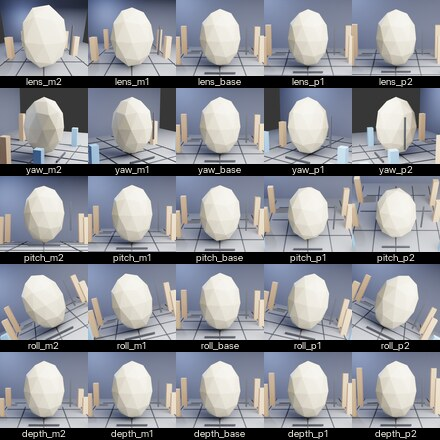
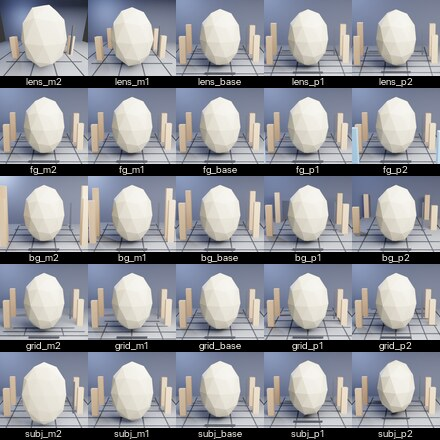
Refocus camera scout on same-view depth cues

diff --git a/src/blender_workbench/recipes/camera_perspective.py b/src/blender_workbench/recipes/camera_perspective.py
@@ -16,14 +16,19 @@ CAMERA_PERSPECTIVE_CAMERA = "perspective_scout_camera"
 
 @dataclass(frozen=True)
 class CameraPerspectiveSettings:
-    camera_lens: float = 45.0
-    camera_distance: float = camera_distance_for_matching_framing(45.0)
+    camera_lens: float = 58.0
+    camera_distance: float = camera_distance_for_matching_framing(58.0, base_lens_mm=58.0, base_distance=4.6)
     camera_yaw: float = 0.0
-    camera_pitch: float = 10.0
+    camera_pitch: float = 12.0
     camera_roll: float = 0.0
     subject_scale: tuple[float, float, float] = (0.72, 0.72, 1.0)
+    subject_y: float = 0.28
+    subject_depth: float = 1.0
+    foreground_depth: float = 1.0
     foreground_marker_scale: float = 1.0
+    background_depth: float = 1.0
     background_marker_scale: float = 1.0
+    floor_grid_depth: float = 1.0
     room_depth: float = 4.6
     light_angle: float = -35.0
 
@@ -57,17 +62,16 @@ def camera_perspective_variants(
     steps: tuple[int, ...] = (-2, -1, 0, 1, 2),
     lens_center: float = 58.0,
     lens_stride: float = 36.0,
-    yaw_stride: float = 34.0,
-    pitch_center: float = 18.0,
-    pitch_stride: float = 13.0,
-    roll_stride: float = 13.0,
-    depth_stride: float = 1.05,
+    foreground_stride: float = 0.45,
+    background_stride: float = 0.45,
+    grid_stride: float = 0.46,
+    subject_stride: float = 0.36,
 ) -> list[SweepVariant]:
-    """Build a stride board for camera variables.
+    """Build a same-view stride board for perspective/depth variables.
 
-    Increase the stride values when the perspective sheet looks timid. The
-    distance is recalculated for every lens tile so the central subject stays
-    roughly comparable while the room perspective changes.
+    Increase the stride values when the sheet looks timid. The lens row uses
+    matched distance, while other rows keep the same camera view and alter the
+    scene's depth cues.
     """
     base = dataclasses.asdict(CameraPerspectiveSettings(camera_lens=lens_center, camera_distance=_matched(lens_center)))
     variants: list[SweepVariant] = []
@@ -81,7 +85,7 @@ def camera_perspective_variants(
                 name=name,
                 label=label,
                 settings=data,
-                note="stride scout: lens, distance, orbit, roll, and depth",
+                note="same-view stride scout: lens, foreground, background, grid, subject",
             )
         )
 
@@ -90,25 +94,44 @@ def camera_perspective_variants(
         add(f"lens_{_step_label(step)}", {"camera_lens": lens, "camera_distance": _matched(lens)})
 
     for step in steps:
-        add(f"yaw_{_step_label(step)}", {"camera_yaw": step * yaw_stride})
-
-    for step in steps:
-        pitch = _clamp(pitch_center + step * pitch_stride, -6.0, 52.0)
-        add(f"pitch_{_step_label(step)}", {"camera_pitch": pitch})
-
-    for step in steps:
-        add(f"roll_{_step_label(step)}", {"camera_roll": step * roll_stride})
-
-    for step in steps:
-        depth = _clamp(4.6 + step * depth_stride, 2.4, 8.0)
-        foreground = _clamp(1.0 - step * 0.28, 0.42, 1.75)
-        background = _clamp(1.0 + step * 0.18, 0.55, 1.55)
+        depth = _clamp(1.0 + step * foreground_stride, 0.18, 2.2)
         add(
-            f"depth_{_step_label(step)}",
+            f"fg_{_step_label(step)}",
             {
-                "room_depth": depth,
-                "foreground_marker_scale": foreground,
-                "background_marker_scale": background,
+                "foreground_depth": depth,
+                "foreground_marker_scale": _clamp(0.55 + depth * 0.54, 0.45, 1.85),
+            },
+        )
+
+    for step in steps:
+        depth = _clamp(1.0 + step * background_stride, 0.22, 2.35)
+        add(
+            f"bg_{_step_label(step)}",
+            {
+                "background_depth": depth,
+                "background_marker_scale": _clamp(1.35 - (depth - 1.0) * 0.32, 0.50, 1.62),
+                "room_depth": _clamp(4.6 + (depth - 1.0) * 1.55, 2.7, 7.0),
+            },
+        )
+
+    for step in steps:
+        grid = _clamp(1.0 + step * grid_stride, 0.25, 2.4)
+        add(
+            f"grid_{_step_label(step)}",
+            {
+                "floor_grid_depth": grid,
+                "room_depth": _clamp(4.6 * grid, 2.4, 8.0),
+            },
+        )
+
+    for step in steps:
+        subject = _clamp(1.0 + step * subject_stride, 0.30, 1.95)
+        add(
+            f"subj_{_step_label(step)}",
+            {
+                "subject_y": _clamp(0.28 + step * 0.24, -0.22, 0.92),
+                "subject_depth": subject,
+                "subject_scale": (0.72, 0.72 * subject, 1.0),
             },
         )
 
@@ -148,33 +171,48 @@ def _add_set(settings: CameraPerspectiveSettings) -> None:
     floor_obj.name = "perspective floor"
     floor_obj.data.materials.append(floor)
 
-    bpy.ops.mesh.primitive_plane_add(size=6.4, location=(0, 2.75, 1.8), rotation=(math.pi / 2, 0, 0))
+    wall_y = 2.05 + settings.background_depth * 0.72
+    bpy.ops.mesh.primitive_plane_add(size=6.4, location=(0, wall_y, 1.8), rotation=(math.pi / 2, 0, 0))
     wall_obj = bpy.context.object
     wall_obj.name = "back wall"
     wall_obj.data.materials.append(wall)
 
-    for x in [-1.2, -0.6, 0.0, 0.6, 1.2]:
-        _cube(f"floor depth stripe {x}", (x, 0.25, 0.012), (0.018, settings.room_depth, 0.012), dark)
-    for index, y in enumerate([-1.2, -0.4, 0.4, 1.2, 2.0]):
-        width = 2.9 - index * 0.22
-        _cube(f"floor cross stripe {index:02d}", (0, y, 0.018), (width, 0.015, 0.012), dark)
+    x_count = max(3, min(9, round(3 + settings.floor_grid_depth * 3)))
+    x_positions = [-1.45 + index * (2.9 / max(1, x_count - 1)) for index in range(x_count)]
+    for index, x in enumerate(x_positions):
+        _cube(f"floor depth stripe {index:02d}", (x, 0.25, 0.012), (0.018, settings.room_depth * settings.floor_grid_depth, 0.012), dark)
+    cross_count = max(3, min(11, round(3 + settings.floor_grid_depth * 4)))
+    for index in range(cross_count):
+        t = index / max(1, cross_count - 1)
+        scaled_y = (-1.25 + t * 3.25) * settings.floor_grid_depth
+        width = 3.0 - t * 1.35
+        _cube(f"floor cross stripe {index:02d}", (0, scaled_y, 0.018), (width, 0.015, 0.012), dark)
 
     for index, y in enumerate([-0.95, -0.25, 0.65, 1.55]):
-        marker_scale = settings.foreground_marker_scale if y < 0 else settings.background_marker_scale
+        is_foreground = y < 0
+        marker_scale = settings.foreground_marker_scale if is_foreground else settings.background_marker_scale
+        depth_scale = settings.foreground_depth if is_foreground else settings.background_depth
+        marker_y = y * depth_scale - (max(0.0, depth_scale - 1.0) * 0.25 if is_foreground else 0.0)
         height = (0.38 + index * 0.18) * marker_scale
-        x = -1.18 if index % 2 == 0 else 1.18
+        x_abs = 1.18
+        if is_foreground:
+            x_abs = _clamp(1.24 - max(0.0, depth_scale - 1.0) * 0.32, 0.78, 1.35)
+        else:
+            x_abs = _clamp(1.02 + max(0.0, depth_scale - 1.0) * 0.22, 0.86, 1.38)
+        x = -x_abs if index % 2 == 0 else x_abs
         mat = cool if y < 0 else warm
-        _cube(f"depth marker left {index:02d}", (x, y, height * 0.5), (0.16, 0.16, height), mat)
-        _cube(f"depth marker right {index:02d}", (-x, y + 0.16, height * 0.5), (0.16, 0.16, height), mat)
+        marker_width = 0.16 * (1.0 + max(0.0, depth_scale - 1.0) * (0.55 if is_foreground else 0.18))
+        _cube(f"depth marker left {index:02d}", (x, marker_y, height * 0.5), (marker_width, 0.16, height), mat)
+        _cube(f"depth marker right {index:02d}", (-x, marker_y + 0.16 * depth_scale, height * 0.5), (marker_width, 0.16, height), mat)
 
-    bpy.ops.mesh.primitive_ico_sphere_add(subdivisions=2, radius=0.72, location=(0.0, 0.28, 0.78))
+    bpy.ops.mesh.primitive_ico_sphere_add(subdivisions=2, radius=0.72, location=(0.0, settings.subject_y, 0.78))
     subject = bpy.context.object
     subject.name = "matched framing subject"
     subject.scale = settings.subject_scale
     subject.data.materials.append(subject_mat)
 
-    _cube("subject vertical ruler", (0.66, 0.22, 0.72), (0.035, 0.035, 0.72), dark)
-    _cube("subject ground ruler", (0.0, -0.18, 0.035), (0.72, 0.035, 0.035), dark)
+    _cube("subject vertical ruler", (0.66, settings.subject_y - 0.06, 0.72), (0.035, 0.035, 0.72), dark)
+    _cube("subject ground ruler", (0.0, settings.subject_y - 0.46, 0.035), (0.72, 0.035, 0.035), dark)
 
 
 def _add_lights(settings: CameraPerspectiveSettings) -> None:

diff --git a/tests/test_sweep.py b/tests/test_sweep.py
@@ -175,25 +175,38 @@ class SweepTests(unittest.TestCase):
 
     def test_camera_perspective_recipe_exposes_lens_distance_board(self):
         variants = camera_perspective_variants(prefix="test")
-        settings = coerce_camera_perspective_settings({"camera_lens": 24, "camera_yaw": 12, "unused": True})
+        settings = coerce_camera_perspective_settings({"camera_lens": 24, "subject_y": 0.4, "unused": True})
         names = [variant.name for variant in variants]
 
         self.assertEqual(len(variants), 25)
         self.assertIn("test_lens_m2", names)
-        self.assertIn("test_roll_p2", names)
-        self.assertIn("test_depth_p2", names)
+        self.assertIn("test_fg_p2", names)
+        self.assertIn("test_bg_p2", names)
+        self.assertIn("test_grid_p2", names)
+        self.assertIn("test_subj_p2", names)
         self.assertIsInstance(settings, CameraPerspectiveSettings)
         self.assertEqual(settings.camera_lens, 24)
-        self.assertEqual(settings.camera_yaw, 12)
+        self.assertEqual(settings.subject_y, 0.4)
         self.assertFalse(hasattr(settings, "unused"))
+
+    def test_camera_perspective_recipe_keeps_same_view_by_default(self):
+        variants = camera_perspective_variants(prefix="test")
+
+        self.assertTrue(all(variant.settings["camera_yaw"] == 0 for variant in variants))
+        self.assertTrue(all(variant.settings["camera_roll"] == 0 for variant in variants))
+        self.assertEqual([variant.label.split("_")[0] for variant in variants[5:10]], ["fg"] * 5)
 
     def test_camera_perspective_recipe_accepts_stride_adjustment(self):
         timid = camera_perspective_variants(prefix="test", lens_stride=8)
         loud = camera_perspective_variants(prefix="test", lens_stride=40)
+        timid_depth = camera_perspective_variants(prefix="test", foreground_stride=0.12)
+        loud_depth = camera_perspective_variants(prefix="test", foreground_stride=0.6)
 
         self.assertLess(timid[0].settings["camera_lens"], timid[2].settings["camera_lens"])
         self.assertLess(loud[0].settings["camera_lens"], timid[0].settings["camera_lens"])
         self.assertGreater(loud[4].settings["camera_distance"], timid[4].settings["camera_distance"])
+        self.assertLess(loud_depth[5].settings["foreground_depth"], timid_depth[5].settings["foreground_depth"])
+        self.assertGreater(loud_depth[9].settings["foreground_depth"], timid_depth[9].settings["foreground_depth"])
 
     def test_transparency_recipe_exposes_dense_material_board(self):
         variants = transparency_variants(prefix="test")

diff --git a/examples/camera_perspective_scout.py b/examples/camera_perspective_scout.py
@@ -37,8 +37,8 @@ def main() -> None:
         postprocess=None,
         title="Camera Perspective Scout",
         notes=[
-            "5x5 stride sheet: lens, yaw, pitch, roll, and room depth.",
-            "Increase lens_stride, yaw_stride, pitch_stride, roll_stride, or depth_stride if the sheet looks timid.",
+            "5x5 same-view stride sheet: lens, foreground anchors, background anchors, grid depth, and subject depth.",
+            "Increase lens_stride, foreground_stride, background_stride, grid_stride, or subject_stride if the sheet looks timid.",
             "Inspired by BlenderArt pack-shot and virtual-set camera setup lessons.",
         ],
         square=True,

diff --git a/src/blender_workbench/presets.py b/src/blender_workbench/presets.py
@@ -213,7 +213,7 @@ CAMERA_PERSPECTIVE = SweepAxis(
 
 CAMERA_ORBIT = SweepAxis(
     name="camera_orbit",
-    note="orbit angle and pitch reveal whether a setup is only working from one view",
+    note="shot-selection axis; avoid for same-scene parameter tuning unless changing view is the point",
     values=(
         ("front_low", {"camera_yaw": 0.0, "camera_pitch": 5.0}),
         ("left_mid", {"camera_yaw": -18.0, "camera_pitch": 11.0}),

diff --git a/README.md b/README.md
@@ -11,7 +11,7 @@ This repo grew out of the lighting/plume studies in the neighboring Blender scen
 - `blender_workbench.materials`: small material helpers with explicit alpha and subsurface semantics.
 - `blender_workbench.presets`: starter axes, render profiles, and tile layouts for common visual experiments.
 - `blender_workbench.recipes`: optional domain recipes, including a fast rocket vacuum plume scout.
-- `examples/camera_perspective_scout.py`: matched-framing lens/distance/angle/pitch board.
+- `examples/camera_perspective_scout.py`: same-view lens and scene-depth cue stride board.
 - `examples/gobo_lighting_scout.py`: projected-shadow/gobo lighting board from the BlenderArt lighting resources.
 - `examples/subsurface_scout.py`: subsurface material board for wax, jelly, opal, roughness, and backlight.
 - `examples/transparency_scout.py`: transparency, transmission, roughness, IOR, tint, and thickness board.
@@ -100,7 +100,7 @@ render_sweep(
 )
 ```
 
-Good current axes include `light_source_jitter`, `light_source_size`, `texture_magnitude`, `texture_scale`, `glow_bloom`, `camera_jitter`, `camera_perspective`, `camera_orbit`, and `transparency_alpha`.
+Good current axes include `light_source_jitter`, `light_source_size`, `texture_magnitude`, `texture_scale`, `glow_bloom`, `camera_jitter`, `camera_perspective`, and `transparency_alpha`.
 
 For fast stride adjustment, build an axis around a center value:
 
@@ -126,7 +126,7 @@ Run the matched-framing camera scout:
 /Applications/Blender.app/Contents/MacOS/Blender --background --python examples/camera_perspective_scout.py
 ```
 
-This uses `blender_workbench.recipes.camera_perspective` to compare lens, yaw, pitch, roll, and room depth as a 5x5 stride sheet. Lens and distance are paired so the central subject stays similarly sized while the room perspective changes. If the sheet looks timid, increase `lens_stride`, `yaw_stride`, `pitch_stride`, `roll_stride`, or `depth_stride`.
+This uses `blender_workbench.recipes.camera_perspective` to compare lens, foreground anchors, background anchors, floor grid depth, and subject depth as a 5x5 stride sheet. The view stays fundamentally frontal; the scene changes under the view so you can smell toward useful depth parameters. If the sheet looks timid, increase `lens_stride`, `foreground_stride`, `background_stride`, `grid_stride`, or `subject_stride`.
 
 ![Camera perspective scout contact sheet](docs/assets/camera-perspective-scout.jpg)
 

diff --git a/docs/sweep-catalog.md b/docs/sweep-catalog.md
@@ -55,7 +55,7 @@ Keep one deliberate failure anchor in material sheets. It calibrates the eye and
 - glow bloom: dry, rim, washed
 - camera jitter: tripod, breathing, loose
 - camera perspective: wide/close, normal/mid, portrait/far, tele/flat
-- camera orbit: front low, left/right mid, high three-quarter
+- scene depth cues: foreground anchors, background anchors, grid spacing, subject depth
 - caustics: light size, water roughness, pattern scale
 - space plume: blue-white emission, soft gray shell, low fire color
 - subsurface candy: opal, amber, ruby, sea-glass
@@ -66,7 +66,7 @@ Color sweeps should avoid one-note palettes. Put at least one cool/warm contrast
 
 - `plume_alpha_strength` x `plume_shape` with `micro_grid`
 - named texture cases with `auto_square_moodboard` and `square=True`
-- `examples/camera_perspective_scout.py` for a 5x5 lens/yaw/pitch/roll/depth stride sheet
+- `examples/camera_perspective_scout.py` for a same-view 5x5 lens/foreground/background/grid/subject stride sheet
 - `examples/gobo_lighting_scout.py` for projected shadow texture, gel color, and light softness
 - `examples/subsurface_scout.py` for translucent wax/jelly/opal material reads with thickness and backlight
 - `examples/transparency_scout.py` for a 5x5 alpha/roughness/IOR/thickness/tint stride sheet

diff --git a/docs/learning-notes.md b/docs/learning-notes.md
@@ -14,7 +14,7 @@ This is a compact map from the local BlenderArt/resource shelf to workbench exer
 
 - `examples/gobo_lighting_scout.py`: turns textured light and shadow-play notes into a 16-tile projected-shadow board.
 - `examples/subsurface_scout.py`: turns SSS/translucency notes into wax, jelly, opal, thickness, backlight, and core-light comparisons.
-- `examples/camera_perspective_scout.py`: turns pack-shot and virtual-set camera lessons into matched lens/distance sweeps.
+- `examples/camera_perspective_scout.py`: turns pack-shot and virtual-set camera lessons into same-view lens and scene-depth-cue sweeps.
 - `examples/transparency_scout.py`: turns alpha/glass/refraction notes into alpha, transmission, roughness, IOR, tint, and pane-thickness comparisons.
 
 ## Workbench Lessons
@@ -22,5 +22,6 @@ This is a compact map from the local BlenderArt/resource shelf to workbench exer
 - Do not use the default glow postprocess for every recipe. It helps plumes, but it can obscure material, shadow, and camera diagnostics.
 - Tiny boards need short labels or adaptive label sizing. Long descriptive variant names belong in metadata, not necessarily on the tile.
 - Perspective is a first-class variable. Pair lens and distance when you want similar composition with different spatial feeling.
+- Yaw and roll usually change the shot instead of tuning the scene. For parameter smelling, keep the view steady and alter foreground, background, grid, and subject depth cues.
 - Transparent materials need structured backgrounds. Without stripes/checkers/depth markers, alpha and IOR sweeps look deceptively identical.
 - Same-y boards usually mean the stride is too small. Use 5x5 stride sheets with one variable per row before adding more hand-picked named cases.

diff --git a/docs/performance.md b/docs/performance.md
@@ -29,7 +29,7 @@ config = replace(
 - Prefer `micro_grid` for broad scouting and `balanced_grid` for readable 3x3 comparisons.
 - Turn postprocessing off when testing shape or framing: `render_sweep(..., postprocess=None)`.
 - Reuse tiles during layout churn with `replace(config, reuse_existing=True)`.
-- Keep camera perspective scouts cheap: the variable is usually lens/distance/framing, not samples.
+- Keep camera perspective scouts cheap: the variable is usually lens or scene depth cues, not samples.
 - Keep `build_scene(settings)` cheap: avoid simulations, huge mesh generation, high subdivision, and expensive boolean stacks in the first pass.
 - Add detail in stages: silhouette, material, lighting, camera, then heavier bake.
 - When a numeric sweep looks timid, increase the `stride_axis(...)` stride and rerun. When every tile fails, reduce the stride or add failure anchors at the extremes.